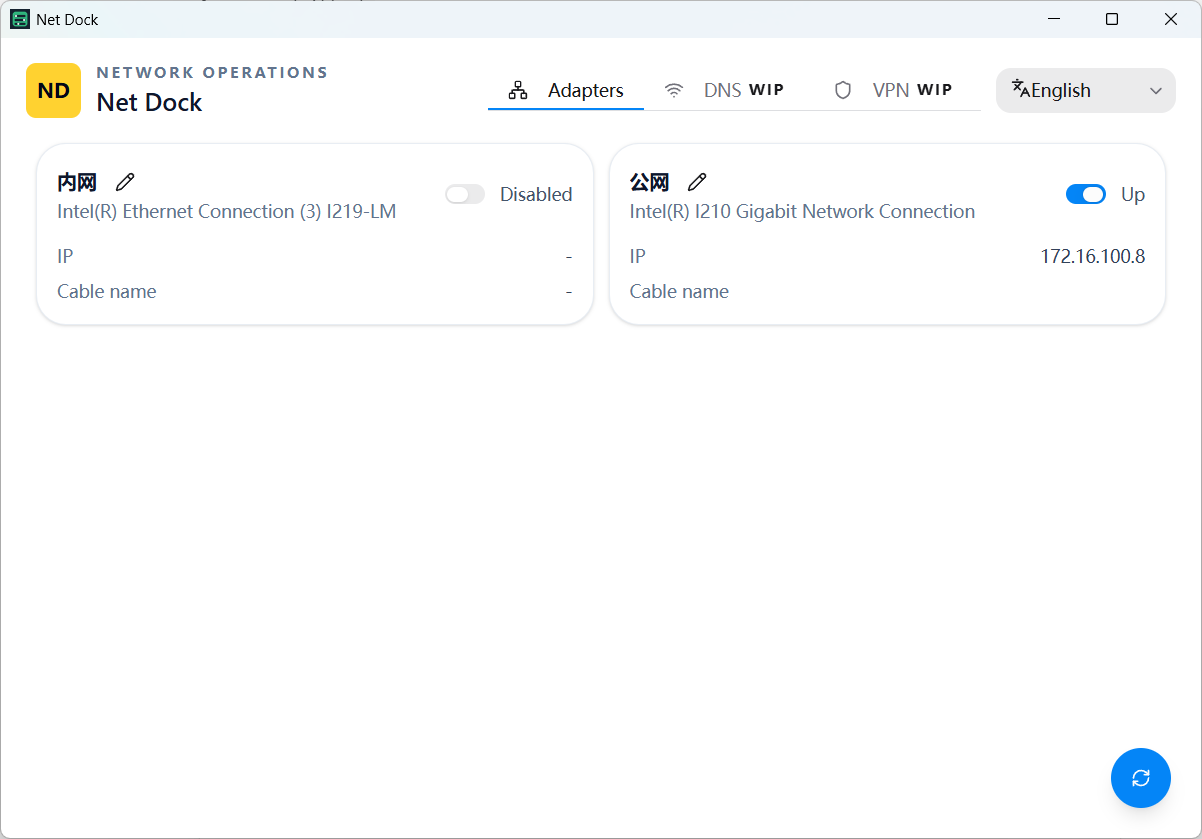
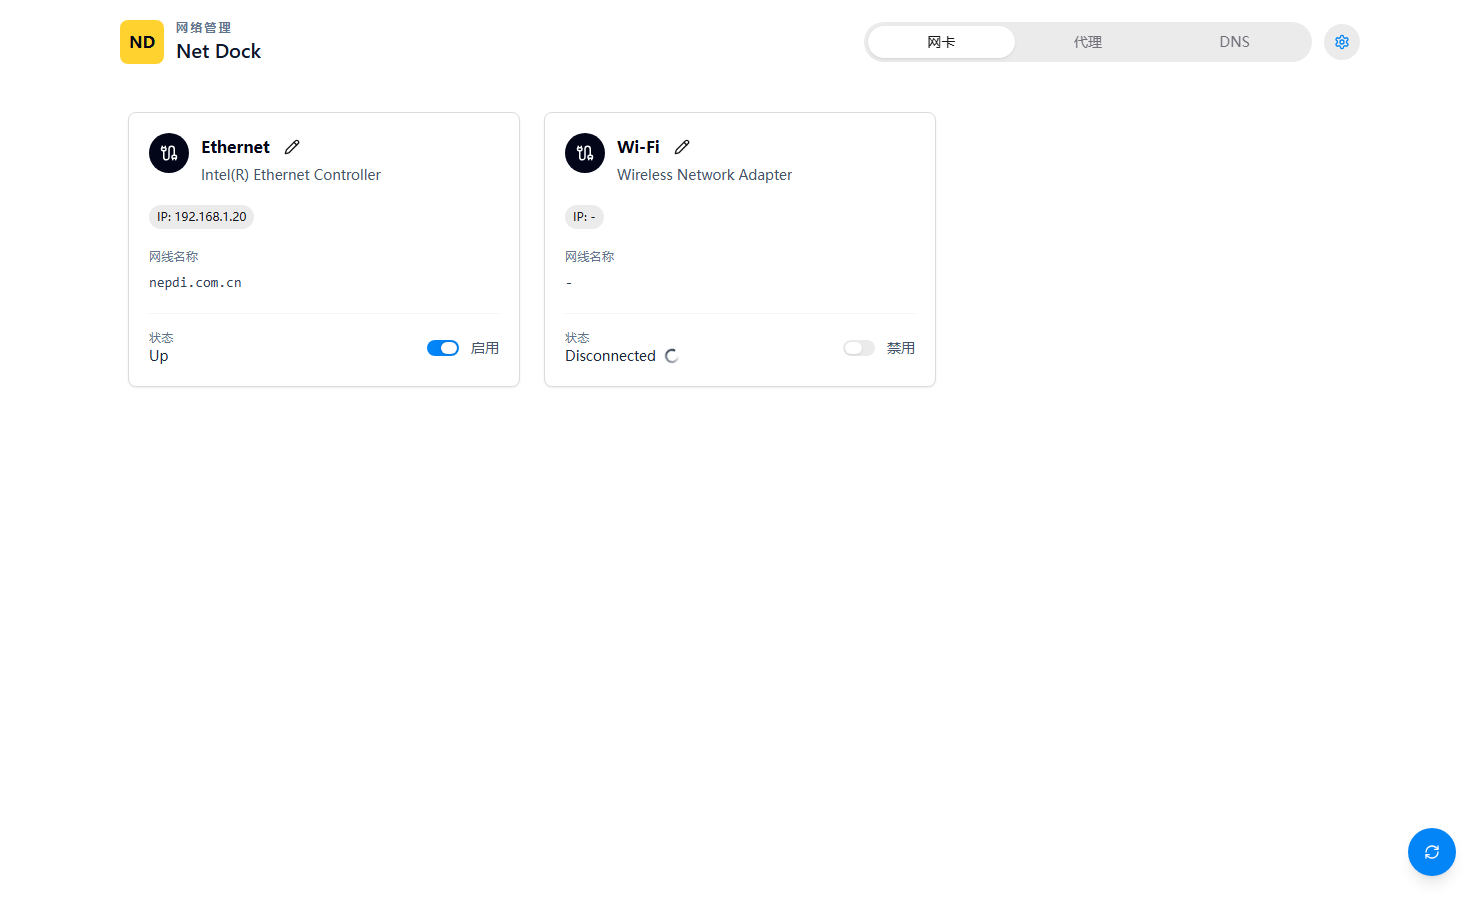
Simplify README content

diff --git a/docs/README.zh-CN.md b/docs/README.zh-CN.md
@@ -2,56 +2,21 @@
 
 [English](../README.md)
 
-Net Dock 是一个用于 Windows 的桌面网络管理工具，基于 Tauri 构建，面向日常网卡切换、网络状态查看、代理识别和 DNS 配置。
+Net Dock 是一个用于 Windows 的桌面网络管理工具，面向日常网卡、代理和 DNS 管理。
 
-> 当前状态：正在迭代中。应用内 DNS 功能仍标记为 WIP，后续会继续完善体验和稳定性。
+## 功能
+
+- 查看 Windows 网卡、IP 地址、状态和连接信息。
+- 在网卡卡片中启用、禁用和重命名网卡。
+- 查看 Windows 系统代理设置。
+- 查看并管理 IPv4 DNS 配置。
+- 在应用内刷新网络状态。
+- 支持英文和简体中文界面切换。
+
+## 截图
 
 ![Net Dock 截图](screenshot.png)
 
-## 已有功能
+## 发布
 
-- 查看 Windows 网卡列表、状态、IPv4 地址和连接特定 DNS 后缀。
-- 使用卡片右上角开关启用或禁用网卡。
-- 在网卡卡片标题处原地修改网卡名称。
-- 当网卡处于 `Disconnected` 等过渡状态时自动刷新状态。
-- 通过右下角悬浮刷新按钮手动刷新当前页面。
-- 支持英文和简体中文界面切换。
-- 从当前用户注册表读取 Windows 系统代理配置。
-- 读取 IPv4 DNS 配置。
-- 设置静态 DNS，或恢复自动获取 DNS。
-- 启动时请求管理员权限，以支持网卡和 DNS 操作。
-
-## 安装
-
-从 GitHub Releases 下载 Windows 便携版 zip，解压后运行 `net-dock.exe`。
-
-网卡和 DNS 操作通常需要管理员权限。Net Dock 启动时会触发 Windows UAC 授权。
-
-## 开发
-
-本项目使用 Tauri v2、Vite、React、TypeScript 和 Rust。
-
-```powershell
-npm install
-npm run tauri dev
-```
-
-构建便携版可执行文件：
-
-```powershell
-npm run tauri -- build --no-bundle
-```
-
-当本机可用 NSIS 或 WiX 时，可以构建安装包：
-
-```powershell
-npm run tauri -- build --bundles nsis
-```
-
-## 发布更新
-
-自动更新发布流程见：[发布更新教程](release-updates.zh-CN.md)。
-
-## 说明
-
-当前后端通过 Tauri + Rust 调用 PowerShell 命令完成网络操作，例如 `Get-NetAdapter`、`Get-NetIPAddress`、`Get-DnsClient` 和 `Rename-NetAdapter`。代理状态读取自 `HKCU\Software\Microsoft\Windows\CurrentVersion\Internet Settings`。自动刷新网卡状态时使用了更轻量的状态查询，避免频繁刷新 DNS 和 IP 详情。
+从 [GitHub Releases](https://github.com/mapinxue/net-dock/releases) 下载最新版本。

diff --git a/README.md b/README.md
@@ -2,56 +2,21 @@
 
 [简体中文](docs/README.zh-CN.md)
 
-Net Dock is a Windows desktop network utility built with Tauri. It focuses on day-to-day adapter switching, network status inspection, proxy inspection, and DNS control.
-
-> Status: actively iterating. Some DNS workflows are still marked as WIP in the app.
-
-![Net Dock screenshot](docs/screenshot.png)
+Net Dock is a Windows desktop network utility for everyday adapter, proxy, and DNS management.
 
 ## Features
 
-- View Windows network adapters with status, IPv4 address, and connection-specific DNS suffix.
-- Enable or disable adapters with an inline switch.
-- Rename adapters directly from each adapter card.
-- Auto-refresh adapter status during transient states such as `Disconnected`.
-- Manually refresh the current view from a floating refresh button.
-- Switch UI language between English and Simplified Chinese.
-- Read the current Windows proxy settings from the user registry.
-- Read IPv4 DNS configuration.
-- Set static DNS servers or restore automatic DNS.
-- Request administrator permission on launch for network operations.
+- View Windows network adapters, IP addresses, status, and connection details.
+- Enable, disable, and rename network adapters from adapter cards.
+- Inspect Windows proxy settings.
+- View and manage IPv4 DNS configuration.
+- Refresh network state from the app UI.
+- Switch between English and Simplified Chinese.
 
-## Install
+## Screenshot
 
-Download the portable Windows zip from the GitHub Releases page, unzip it, and run `net-dock.exe`.
+![Net Dock screenshot](docs/screenshot.png)
 
-Adapter and DNS operations usually require administrator permission. Net Dock requests Windows UAC elevation when it starts.
+## Release
 
-## Development
-
-This project uses Tauri v2, Vite, React, TypeScript, and Rust.
-
-```powershell
-npm install
-npm run tauri dev
-```
-
-Build a portable executable:
-
-```powershell
-npm run tauri -- build --no-bundle
-```
-
-Build an installer when NSIS or WiX is available:
-
-```powershell
-npm run tauri -- build --bundles nsis
-```
-
-## Release Updates
-
-See the Chinese guide for the current updater release workflow: [发布更新教程](docs/release-updates.zh-CN.md).
-
-## Notes
-
-Net Dock currently uses PowerShell commands such as `Get-NetAdapter`, `Get-NetIPAddress`, `Get-DnsClient`, and `Rename-NetAdapter` behind the Tauri backend. Proxy status is read from `HKCU\Software\Microsoft\Windows\CurrentVersion\Internet Settings`. The adapter status auto-refresh path uses a lighter status-only query to reduce refresh overhead.
+Download the latest version from [GitHub Releases](https://github.com/mapinxue/net-dock/releases).